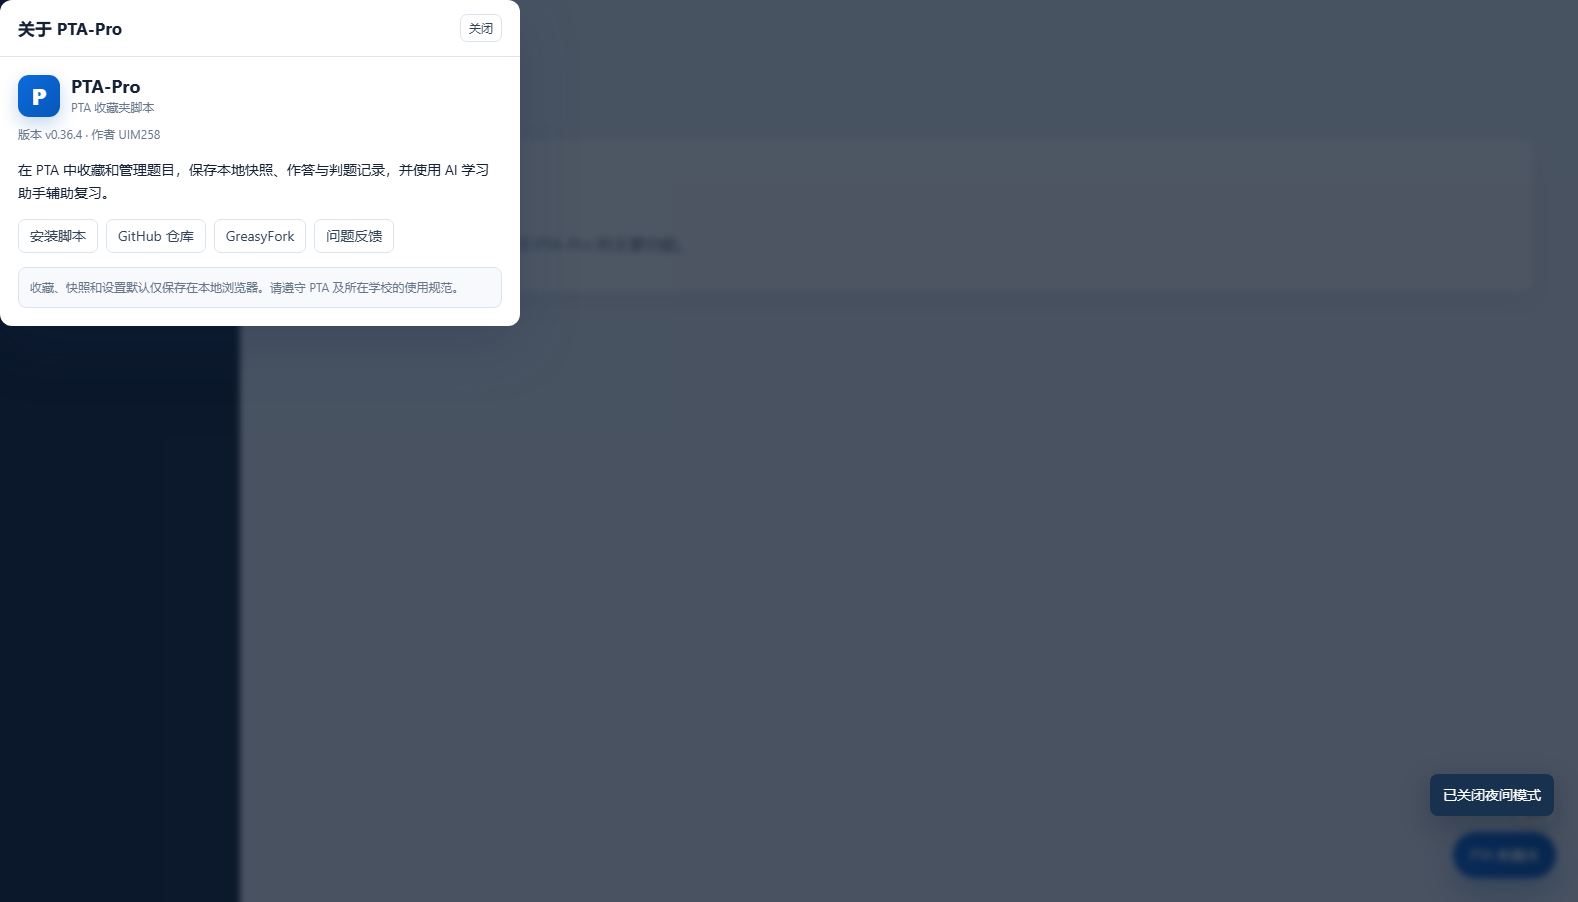
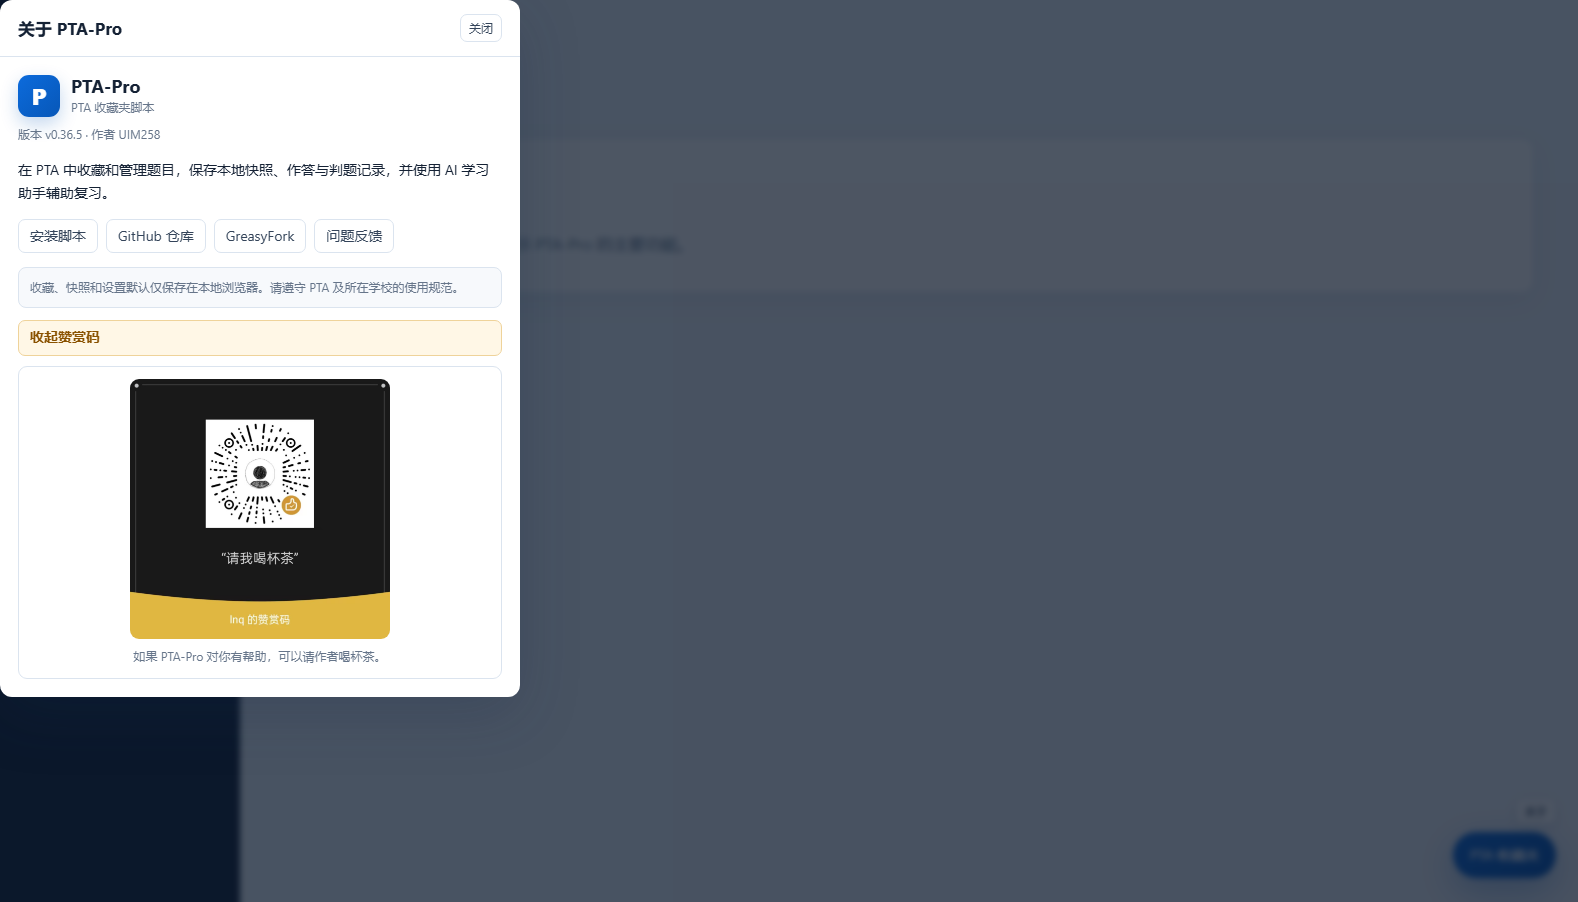
release: PTA-Pro 0.36.5 sponsor support

Changed region(s): [[0.0, 0.3415, 0.3416, 0.7761], [0.9005, 0.8381, 0.9937, 0.9313]]

diff --git a/outputs/pta-favorites.user.js b/outputs/pta-favorites.user.js
@@ -2,7 +2,7 @@
 // @name         PTA 收藏夹
 // @name:zh-CN   PTA 收藏夹
 // @namespace    https://github.com/UIM258/PTA-Pro
-// @version      0.36.4
+// @version      0.36.5
 // @description  面向 PTA（拼题A）的收藏夹脚本：收藏分类、本地快照、判题记录、AI 解析与导入导出。
 // @author       UIM258
 // @homepageURL  https://github.com/UIM258/PTA-Pro
@@ -1063,7 +1063,7 @@
   const DB_NAME = 'pta-favorites-content';
   const DB_VERSION = 1;
   const DB_STORE = 'snapshots';
-  const APP_VERSION = '0.36.4';
+  const APP_VERSION = '0.36.5';
   const HOST_ID = 'ptaf-root';
   const STAR_ATTR = 'data-ptaf-star';
   const LOG_PREFIX = '[PTA 收藏夹]';
@@ -1073,6 +1073,7 @@
     script: 'https://raw.githubusercontent.com/UIM258/PTA-Pro/main/outputs/pta-favorites.user.js',
     issues: 'https://github.com/UIM258/PTA-Pro/issues',
     greasyfork: 'https://greasyfork.org/zh-CN/scripts/595643-pta-%E6%94%B6%E8%97%8F%E5%A4%B9',
+    sponsorQr: 'https://raw.githubusercontent.com/UIM258/PTA-Pro/main/docs/assets/sponsor-qr.jpg',
   };
   const AI_PROVIDERS = {
     '': { label: '自定义', baseUrl: '' },
@@ -4191,6 +4192,63 @@ button {
   background: linear-gradient(135deg, #2f83df, #15559c);
   box-shadow: 0 7px 18px rgba(0, 0, 0, 0.28);
 }
+.ptaf-sponsor-toggle {
+  display: flex;
+  width: 100%;
+  min-height: 36px;
+  margin-top: 12px;
+  color: #8a5200;
+  background: #fff7e6;
+  border-color: #efd39a;
+  font-weight: 650;
+}
+
+.ptaf-sponsor-toggle:hover {
+  color: #6d4000;
+  background: #fff1d6;
+  border-color: #e7c27d;
+}
+
+.ptaf-sponsor-panel {
+  margin-top: 10px;
+  padding: 12px;
+  text-align: center;
+  background: #fff;
+  border: 1px solid var(--ptaf-border);
+  border-radius: 9px;
+}
+
+.ptaf-sponsor-panel img {
+  display: block;
+  width: min(260px, 100%);
+  height: auto;
+  margin: 0 auto;
+  background: #fff;
+  border-radius: 9px;
+}
+
+.ptaf-sponsor-panel div {
+  margin-top: 8px;
+  color: var(--ptaf-muted);
+  font-size: 12px;
+}
+
+:host(.is-night) .ptaf-sponsor-toggle {
+  color: #f3cc80;
+  background: #40331b;
+  border-color: #6d5520;
+}
+
+:host(.is-night) .ptaf-sponsor-toggle:hover {
+  color: #ffe1a3;
+  background: #4d3d20;
+  border-color: #8a6b2b;
+}
+
+:host(.is-night) .ptaf-sponsor-panel {
+  background: #111c31;
+  border-color: var(--ptaf-border);
+}
 `;
       this.shadow.appendChild(styles);
 
@@ -4357,6 +4415,11 @@ button {
                 <a class="ptaf-btn" href="${PROJECT_LINKS.issues}" target="_blank" rel="noopener noreferrer">问题反馈</a>
               </div>
               <div class="ptaf-about-note">收藏、快照和设置默认仅保存在本地浏览器。请遵守 PTA 及所在学校的使用规范。</div>
+              <button class="ptaf-btn ptaf-sponsor-toggle" id="ptafSponsorToggle" type="button">请我喝杯茶</button>
+              <div class="ptaf-sponsor-panel" id="ptafSponsorPanel" hidden>
+                <img src="${PROJECT_LINKS.sponsorQr}" alt="赞赏码" loading="lazy">
+                <div>如果 PTA-Pro 对你有帮助，可以请作者喝杯茶。</div>
+              </div>
             </div>
           </section>
         </div>
@@ -4395,6 +4458,7 @@ button {
       this.shadow.getElementById('ptafShortcutSettings').addEventListener('click', () => this.openShortcutSettings());
       this.shadow.getElementById('ptafNightMode').addEventListener('click', () => this.toggleNightMode());
       this.shadow.getElementById('ptafAbout').addEventListener('click', () => this.openModal('about'));
+      this.shadow.getElementById('ptafSponsorToggle').addEventListener('click', () => this.toggleSponsorPanel());
       this.shadow.getElementById('ptafAiSettings').addEventListener('click', () => this.openAiSettings());
       this.shadow.getElementById('ptafSnapshotAi').addEventListener('click', () => this.openAiPanel(this.currentSnapshotId));
       this.shadow.getElementById('ptafAiSaveSettings').addEventListener('click', () => this.saveAiSettings());
@@ -4992,6 +5056,14 @@ button {
       this.store.save(true);
       this.applyNightMode(true);
       this.toast(enabled ? '已开启夜间模式' : '已关闭夜间模式');
+    }
+
+    toggleSponsorPanel() {
+      const panel = this.shadow.getElementById('ptafSponsorPanel');
+      const button = this.shadow.getElementById('ptafSponsorToggle');
+      if (!panel) return;
+      panel.hidden = !panel.hidden;
+      if (button) button.textContent = panel.hidden ? '请我喝杯茶' : '收起赞赏码';
     }
 
     applyNightMode(syncSnapshot) {

diff --git a/src/app.js b/src/app.js
@@ -15,7 +15,7 @@
   const DB_NAME = 'pta-favorites-content';
   const DB_VERSION = 1;
   const DB_STORE = 'snapshots';
-  const APP_VERSION = '0.36.4';
+  const APP_VERSION = '0.36.5';
   const HOST_ID = 'ptaf-root';
   const STAR_ATTR = 'data-ptaf-star';
   const LOG_PREFIX = '[PTA 收藏夹]';
@@ -25,6 +25,7 @@
     script: 'https://raw.githubusercontent.com/UIM258/PTA-Pro/main/outputs/pta-favorites.user.js',
     issues: 'https://github.com/UIM258/PTA-Pro/issues',
     greasyfork: 'https://greasyfork.org/zh-CN/scripts/595643-pta-%E6%94%B6%E8%97%8F%E5%A4%B9',
+    sponsorQr: 'https://raw.githubusercontent.com/UIM258/PTA-Pro/main/docs/assets/sponsor-qr.jpg',
   };
   const AI_PROVIDERS = {
     '': { label: '自定义', baseUrl: '' },
@@ -1739,6 +1740,11 @@
                 <a class="ptaf-btn" href="${PROJECT_LINKS.issues}" target="_blank" rel="noopener noreferrer">问题反馈</a>
               </div>
               <div class="ptaf-about-note">收藏、快照和设置默认仅保存在本地浏览器。请遵守 PTA 及所在学校的使用规范。</div>
+              <button class="ptaf-btn ptaf-sponsor-toggle" id="ptafSponsorToggle" type="button">请我喝杯茶</button>
+              <div class="ptaf-sponsor-panel" id="ptafSponsorPanel" hidden>
+                <img src="${PROJECT_LINKS.sponsorQr}" alt="赞赏码" loading="lazy">
+                <div>如果 PTA-Pro 对你有帮助，可以请作者喝杯茶。</div>
+              </div>
             </div>
           </section>
         </div>
@@ -1777,6 +1783,7 @@
       this.shadow.getElementById('ptafShortcutSettings').addEventListener('click', () => this.openShortcutSettings());
       this.shadow.getElementById('ptafNightMode').addEventListener('click', () => this.toggleNightMode());
       this.shadow.getElementById('ptafAbout').addEventListener('click', () => this.openModal('about'));
+      this.shadow.getElementById('ptafSponsorToggle').addEventListener('click', () => this.toggleSponsorPanel());
       this.shadow.getElementById('ptafAiSettings').addEventListener('click', () => this.openAiSettings());
       this.shadow.getElementById('ptafSnapshotAi').addEventListener('click', () => this.openAiPanel(this.currentSnapshotId));
       this.shadow.getElementById('ptafAiSaveSettings').addEventListener('click', () => this.saveAiSettings());
@@ -2374,6 +2381,14 @@
       this.store.save(true);
       this.applyNightMode(true);
       this.toast(enabled ? '已开启夜间模式' : '已关闭夜间模式');
+    }
+
+    toggleSponsorPanel() {
+      const panel = this.shadow.getElementById('ptafSponsorPanel');
+      const button = this.shadow.getElementById('ptafSponsorToggle');
+      if (!panel) return;
+      panel.hidden = !panel.hidden;
+      if (button) button.textContent = panel.hidden ? '请我喝杯茶' : '收起赞赏码';
     }
 
     applyNightMode(syncSnapshot) {

diff --git a/src/styles.css b/src/styles.css
@@ -1567,3 +1567,60 @@ button {
   background: linear-gradient(135deg, #2f83df, #15559c);
   box-shadow: 0 7px 18px rgba(0, 0, 0, 0.28);
 }
+.ptaf-sponsor-toggle {
+  display: flex;
+  width: 100%;
+  min-height: 36px;
+  margin-top: 12px;
+  color: #8a5200;
+  background: #fff7e6;
+  border-color: #efd39a;
+  font-weight: 650;
+}
+
+.ptaf-sponsor-toggle:hover {
+  color: #6d4000;
+  background: #fff1d6;
+  border-color: #e7c27d;
+}
+
+.ptaf-sponsor-panel {
+  margin-top: 10px;
+  padding: 12px;
+  text-align: center;
+  background: #fff;
+  border: 1px solid var(--ptaf-border);
+  border-radius: 9px;
+}
+
+.ptaf-sponsor-panel img {
+  display: block;
+  width: min(260px, 100%);
+  height: auto;
+  margin: 0 auto;
+  background: #fff;
+  border-radius: 9px;
+}
+
+.ptaf-sponsor-panel div {
+  margin-top: 8px;
+  color: var(--ptaf-muted);
+  font-size: 12px;
+}
+
+:host(.is-night) .ptaf-sponsor-toggle {
+  color: #f3cc80;
+  background: #40331b;
+  border-color: #6d5520;
+}
+
+:host(.is-night) .ptaf-sponsor-toggle:hover {
+  color: #ffe1a3;
+  background: #4d3d20;
+  border-color: #8a6b2b;
+}
+
+:host(.is-night) .ptaf-sponsor-panel {
+  background: #111c31;
+  border-color: var(--ptaf-border);
+}

diff --git a/README.md b/README.md
@@ -104,6 +104,29 @@ https://raw.githubusercontent.com/UIM258/PTA-Pro/main/outputs/pta-favorites.user
 
 4. 打开 PTA 题目页面，点击标题前的星标即可收藏。
 
+### 让 AI Agent 协助安装
+
+如果你使用 Codex、ChatGPT、Claude、Cursor 或其他能够操作浏览器和终端的 AI Agent，可以直接把下面这段提示词发给它，让 Agent 协助完成安装：
+
+```text
+请协助我安装 PTA-Pro 的“PTA 收藏夹”油猴脚本。
+
+目标：
+1. 检查我的 Chrome 或 Edge 是否已经安装 Tampermonkey 等用户脚本管理器。
+2. 如果没有安装，请打开官方安装页面，指导我完成安装。
+3. 打开 GreasyFork 脚本页：
+   https://greasyfork.org/zh-CN/scripts/595643-pta-%E6%94%B6%E8%97%8F%E5%A4%B9
+4. 如果 GreasyFork 暂时不可用，改用 GitHub Raw：
+   https://raw.githubusercontent.com/UIM258/PTA-Pro/main/outputs/pta-favorites.user.js
+5. 安装完成后，打开任意 PTA 题目页面，确认标题前出现收藏星标。
+6. 如果安装或更新失败，请检查用户脚本管理器的版本和更新状态，不要修改或删除我的其他脚本。
+
+安全要求：
+- 不要读取、记录或上传我的密码、Cookie、API Key 或浏览历史。
+- 遇到登录、验证码或权限确认时，请暂停并让我自己操作。
+- 不要自动提交 PTA 题目，不要访问隐藏测试点。
+```
+
 ## 使用说明
 
 - **左键星标**：收藏；再次左键取消收藏并删除本地快照。
@@ -152,3 +175,11 @@ build.mjs    构建脚本
 ## 许可证
 
 [MIT](LICENSE)
+
+## 请我喝杯茶
+
+如果 PTA-Pro 对你有帮助，可以请作者喝杯茶。感谢你的支持。
+
+<p align="center">
+  <img src="docs/assets/sponsor-qr.jpg" alt="请我喝杯茶赞赏码" width="320">
+</p>

diff --git a/outputs/使用说明.md b/outputs/使用说明.md
@@ -417,3 +417,8 @@ AI 功能目前处于设计阶段，设计文档：
 - About 文字加深。
 - 修复部分题目标题重复显示题号的问题。
 - 新增功能演示 JSON 和 README 截图。
+
+## 0.36.5 更新
+
+- About 最后新增请我喝杯茶按钮，可展开赞赏码。
+- README 最后新增赞赏码和支持作者说明。- README 安装区新增 AI Agent 协助安装提示词。

diff --git a/CHANGELOG.md b/CHANGELOG.md
@@ -1,5 +1,11 @@
 # Changelog
 
+## 0.36.5
+
+- About 最后新增请我喝杯茶按钮，可展开赞赏码。
+- README 最后新增赞赏码和支持作者说明。
+- README 安装区新增 AI Agent 协助安装提示词。
+
 ## 0.36.4
 
 - About 链接顺序调整为：安装脚本、GitHub 仓库、GreasyFork、问题反馈。
